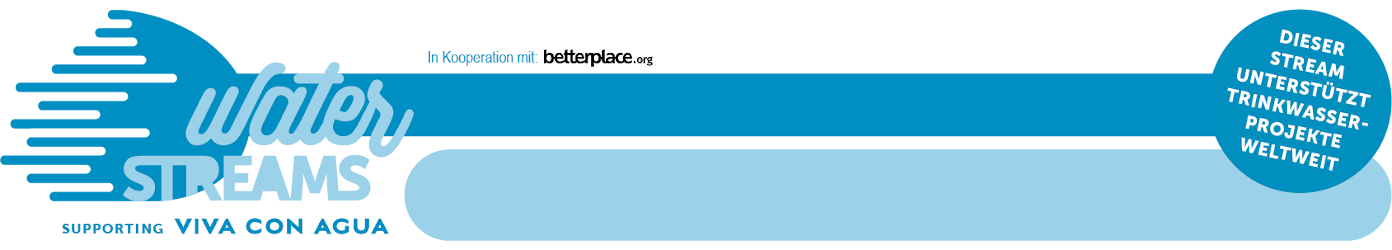
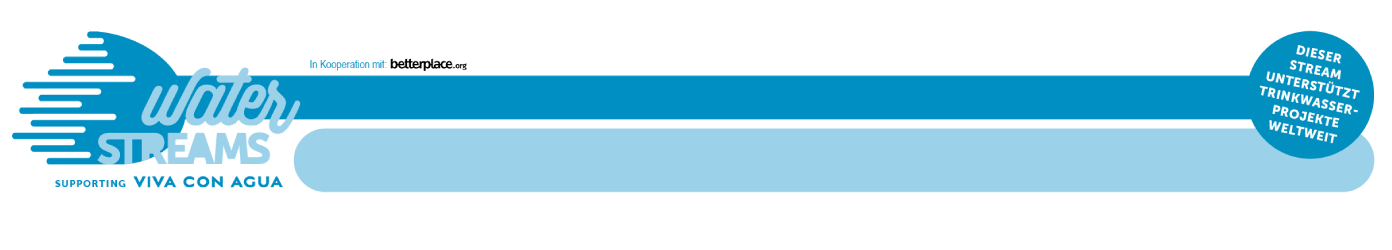
Replace image.
[#171471126]

diff --git a/public/waterstreams.html b/public/waterstreams.html
@@ -15,7 +15,7 @@
       color: #fff;
       font-family: Fira Sans, sans-serif;
       font-size: 20px;
-      margin-bottom: 49px;
+      margin-bottom: 23px;
     }
 
     .display-container {
@@ -29,7 +29,7 @@
       margin-left: 512px;
       width: 900px;
       position: absolute;
-      top: 73px;
+      top: 65px;
     }
   </style>
 </head>
